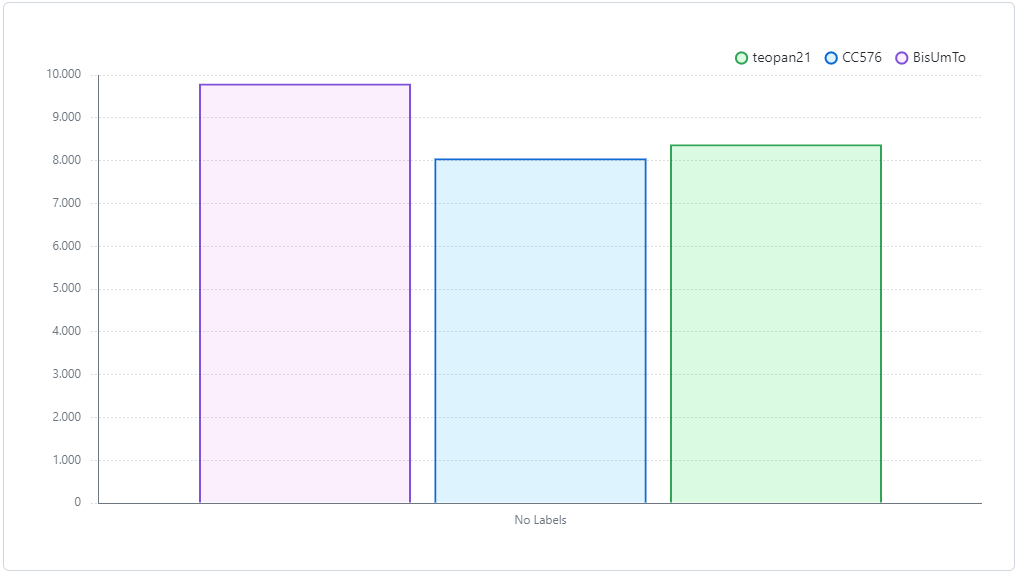
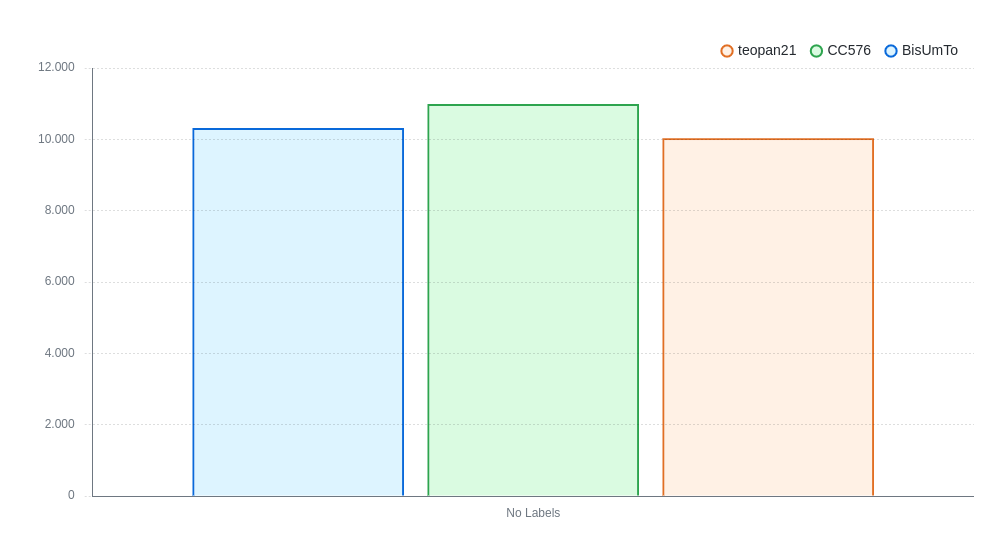
aggiornate criticità e monitoraggio ore

diff --git a/D5/C.md b/D5/C.md
@@ -2,13 +2,15 @@
 
 Durante il progetto, si sono presentate numerose problematiche che hanno richiesto la revisione di alcuni obiettivi iniziali per mantenere la coerenza con ciò che per necessità è stato modificato col tempo nel progetto. Una di queste sfide è stata mantenere concentrazione e dedizione per un periodo di tempo lungo e organizzare il lavoro per rispettare le deadline.
 
-Il testing del server javascript è stato particolarmente complesso a causa di numerosi problemi ed errori di esecuzione. Questo problema è stato risolto grazie ad un maggiore approfondimento da parte di Carmen Casulli, che ha preso in mano questa parte del progetto.
+Il testing del server javascript è stato particolarmente complesso a causa di numerosi problemi ed errori di esecuzione. Questo problema è stato risolto grazie ad un maggiore approfondimento da parte di Carmen Casulli e Teodora Panjkovic, che hanno preso in mano questa parte del progetto.
 
 Il frontend dell'applicazione è stato difficile da testare nella sua parte di funzionamento offline, poiché i dispositivi tendevano a non aggiornare i file in cache. Purtroppo, le funzionalità offline non sono ancora disponibili nell'attuale versione del client.
 
 Sono state incontrate difficoltà anche nel deployment dell'applicazione, poiché Heroku richiede una carta di credito, per poterne fare utilizzo. Alla fine, la scelta per il deployment è ricaduta su Vercel.
 
-Il problema dell'impaginazione accurata dei grafici ha richiesto una grande quantità di tempo e precisione, ed è stato aggirato, in alcuni casi, suddividendo alcuni degli stessi. Inoltre, le nozioni di Javascript e Mongoose apprese nei tutorial hanno dovute essere colmate con le rispettive documentazioni per trovare una soluzione alle numerose ambiguità verificatesi durante lo sviluppo.
+Il problema dell'impaginazione accurata dei grafici ha richiesto una grande quantità di tempo e precisione, ed è stato aggirato, in alcuni casi, suddividendo alcuni degli stessi. Inoltre, le nozioni di Javascript, Mongoose e Jest apprese nei tutorial hanno dovute essere colmate con le rispettive documentazioni per trovare una soluzione alle numerose ambiguità verificatesi durante lo sviluppo.
+
+È stata sottovalutata la mole di lavoro dovuta all'alto numero di funzionalità/api che si è deciso di implementare. Come conseguenza di ciò, nella fase finale di testing, si è dovuto selezionarne un sottoinsieme più limitato invece di testarle tutte.
 
 Durante la stesura dei deliverables, ci sono stati numerosi problemi di sovrapposizione tra i vari documenti, poiché i periodi di malattia, lavoro e studio hanno ritardato il lavoro . Ciò ha comportato che solo un elemento del gruppo potesse andare a lezione per volta, il che ha portato a una bozza iniziale di ciascuna fase dello sviluppo da parte di chi andava a lezione, seguita da progressivi ampliamenti, revisioni e correzioni da parte degli altri membri man mano che raggiungevano quella fase. Ciò ha a sua volta comportato nuove modifiche alle fasi successive dello sviluppo che erano state intanto raggiunte dal membro più avanti nel lavoro.
 

diff --git a/D5/DL.md b/D5/DL.md
@@ -13,6 +13,6 @@ Tabella ore:
 
 | Componente del Team | D1 | D2 | D3 | D4 | D5 | Totale |
 | --- | --- | --- | --- | --- | --- | --- |
-| Carmen Casulli *(in blu)* | 31,92 | 34,417 |30,58 | 28,92 | 8,33 | 134,17 |
-| Kevin Delugan *(in viola)* | 23,50 | 28,17 | 12,45 | 89,83 | 9,33 | 163,28 |
-| Teodora Panjkovic *(in verde)* | 36,67 | 26,75 | 30,78 | 36,58 | 9,33 |139,61 |
+| Carmen Casulli *(in verde)* | 31,92 | 35.08 | 30,58 | 74.42 | 11.17 | 183.17 |
+| Kevin Delugan *(in blu)* | 23,50 | 28,17 | 12,45 | 97.50 | 10,33 | 171.95 |
+| Teodora Panjkovic *(in arancione)* | 36,17 | 27,25 | 30,78 | 62.42 | 10.58 | 167.20 |
